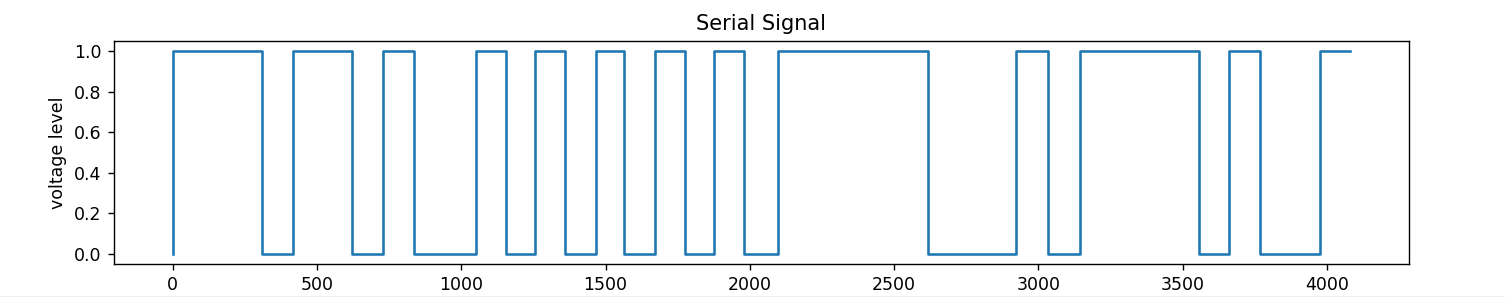
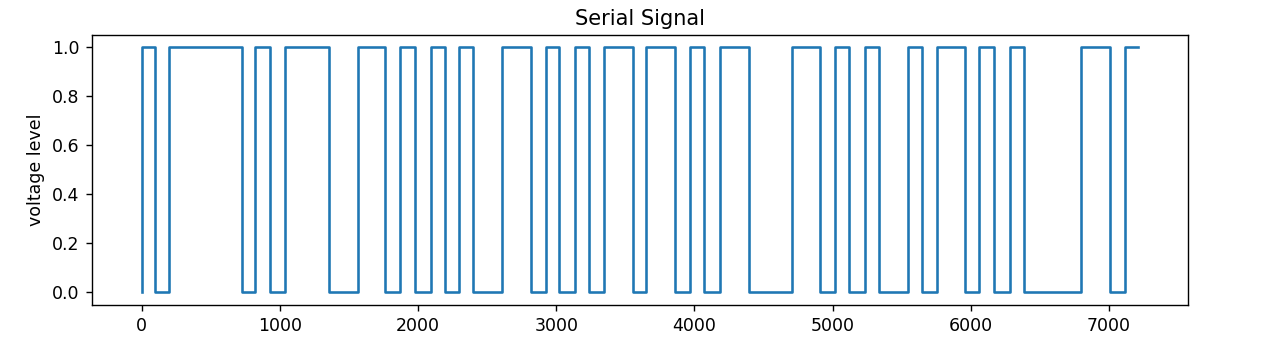
Updated readme, added AD_Converion to the logical_analyzer.py

Changed region(s): [[0.0, 0.0303, 0.936, 0.9697], [0.0936, 0.9394, 0.1248, 0.9697]]

diff --git a/logic_analyzer/logic_analyzer.py b/logic_analyzer/logic_analyzer.py
@@ -13,6 +13,28 @@ def write_read(serial_port, x):
     data = serial_port.readline()
     return data
 
+# Optional function - not part of logic analyzer functionality
+# Gets arrays of timestamps and values 0,1
+# Converts these arrays to binary sequence
+def A_D_conversion(x, y):
+	min_diff = x[1] - x[0]
+	for i in range(1, len(x)):
+		if x[i]-x[i-1] < min_diff:
+			min_diff = x[i]-x[i-1]
+	print(min_diff)
+
+	binary = []
+	for i in range(1, len(x)):
+		diff = x[i] - x[i-1]
+		periods = diff/min_diff
+
+		for j in range(int(periods)):
+			binary.append(y[i-1])
+			print(y[i-1], end='')
+	print("\n")
+	return binary
+
+
 # Global variables
 line = b''
 arr = []
@@ -54,6 +76,9 @@ x, y = zip(*arr) # separate pairs into two arrays
 # this makes time on the plot start at 0 and not with some 6-digit number
 ref = x[0]
 x = [a - ref for a in x]
+
+# A/D conversion
+#A_D_conversion(x, y)
 
 # You can also invert the binary array
 # That makes 1 high and 0 low

diff --git a/logic_analyzer/README.md b/logic_analyzer/README.md
@@ -4,25 +4,47 @@ In this folder you can find implementation of logic analyzer for Arduino.
 
 ## Info
 
-The application reads changes on a set digital pin and stores every change in a buffer along with a timestamp in microseconds.
-
-The applications listens on serial port. If 'G' is sent it will send the buffer through serial port.
-
-Python script "logic_analyzer.py" is doing exactly this and plotting the received array.
-
-You can run "test_..." applications on another arduino to test for different protocols and combinations of byte streams. Just make sure you connect the correct output pin from test device, using a jumper, to the correct input pin on the logic_analyzer device (pin 10 by default).
+The application reads changes on a set digital pin and stores every change in a buffer along with a timestamp in microseconds. The applications listens on serial port. If 'G' is sent it will send the buffer through serial port. Python script "logic_analyzer.py" is doing exactly this and plotting the received array. You can run "test_..." applications on another arduino to test for different protocols and combinations of byte streams. Just make sure you connect the correct output pin from test device, using a jumper, to the correct input pin on the logic_analyzer device (pin 10 by default).
 
 ## Serial communication
 
-Upload "logic_analyzer.ino" to one board and "test_software_serial.ino" to another. sConnect pin10 and pin11 respectively.
-
-Set the test device so that it constantly sends "my_array" every 500mS by uncommenting "mySerial.print(my_array);".
-
-On your host/desktop machine run "python logic_analyzer.py" in the "logic_analyzer" directory.
+Upload "logic_analyzer.ino" to one board and "test_software_serial.ino" to another. sConnect pin10 and pin11 respectively. Set the test device so that it constantly sends "my_array" every 500mS by uncommenting "mySerial.print(my_array);". On your host/desktop machine run "python logic_analyzer.py" in the "logic_analyzer" directory.
 
 You should get a plot like this:
 
 ![Serial comm output](https://raw.githubusercontent.com/iamalminko/how_to_arduino/master/resources/serial_plot_my_array.png "Serial plot: my_array")
+
+Signal high in this setup is idle. The signal initially performs a HI/LO transition, followed by a high(0, green) start bit. After this we have 4 bytes transmitted. After each one, we have a stop(1,LO, red) bit then a start(0, HI, green) bit that signals to the other device beginning of transmission. Keep in mind that serial sends LSB first. That means that individual bytes are read from right to left (the bits are inverted on the plot). This plot has been recorded while sending bytes from test device with 9600baud rate. It took 4mS to receive 4 bytes which is as it should be (1.04mS per byte).
+
+Let's take a look at what happens if we send a string "ALMINKO" (9600baud):
+
+![Sending string "ALMINKO"](https://raw.githubusercontent.com/iamalminko/how_to_arduino/master/resources/serial_plot_alminko.png "Sending a string")
+
+The plot above looks a bit too tedious to verify manually. We can uncomment code in "logic_analyzer.py":
+
+```
+# A/D conversion
+A_D_conversion(x, y)
+```
+
+This will print us a stream of 0's and 1's. For the string "ALMINKO" we will get the following sequence:
+
+```
+010000010100011001010101100101010010010100111001010110100101011110010
+
+# Split the stream into bytes and start/stop bits:
+0 10000010 10 00110010 10 10110010 10 10010010 10 01110010 10 11010010 10 11110010
+
+# Individual bytes (from left to right), when inverted:
+# byte # ASCII symbol
+01000001 # A
+01001100 # L
+01001101 # M
+01001001 # I
+01001110 # N
+01001011 # K
+01001111 # O
+```
 
 
 ## Service Info
@@ -31,3 +53,5 @@ You should get a plot like this:
 Sketch uses 2518 bytes (7%) of program storage space. Maximum is 32256 bytes.
 Global variables use 512 bytes (25%) of dynamic memory, leaving 1536 bytes for local variables. Maximum is 2048 bytes.
 ```
+
+We can safely go up to 38400baud rate. Be cautious if you go with higher baud rates. For example at 115200baud rate, the communication is so fast that Arduino digitalRead can't capture every change, hence you will get garbage output.
